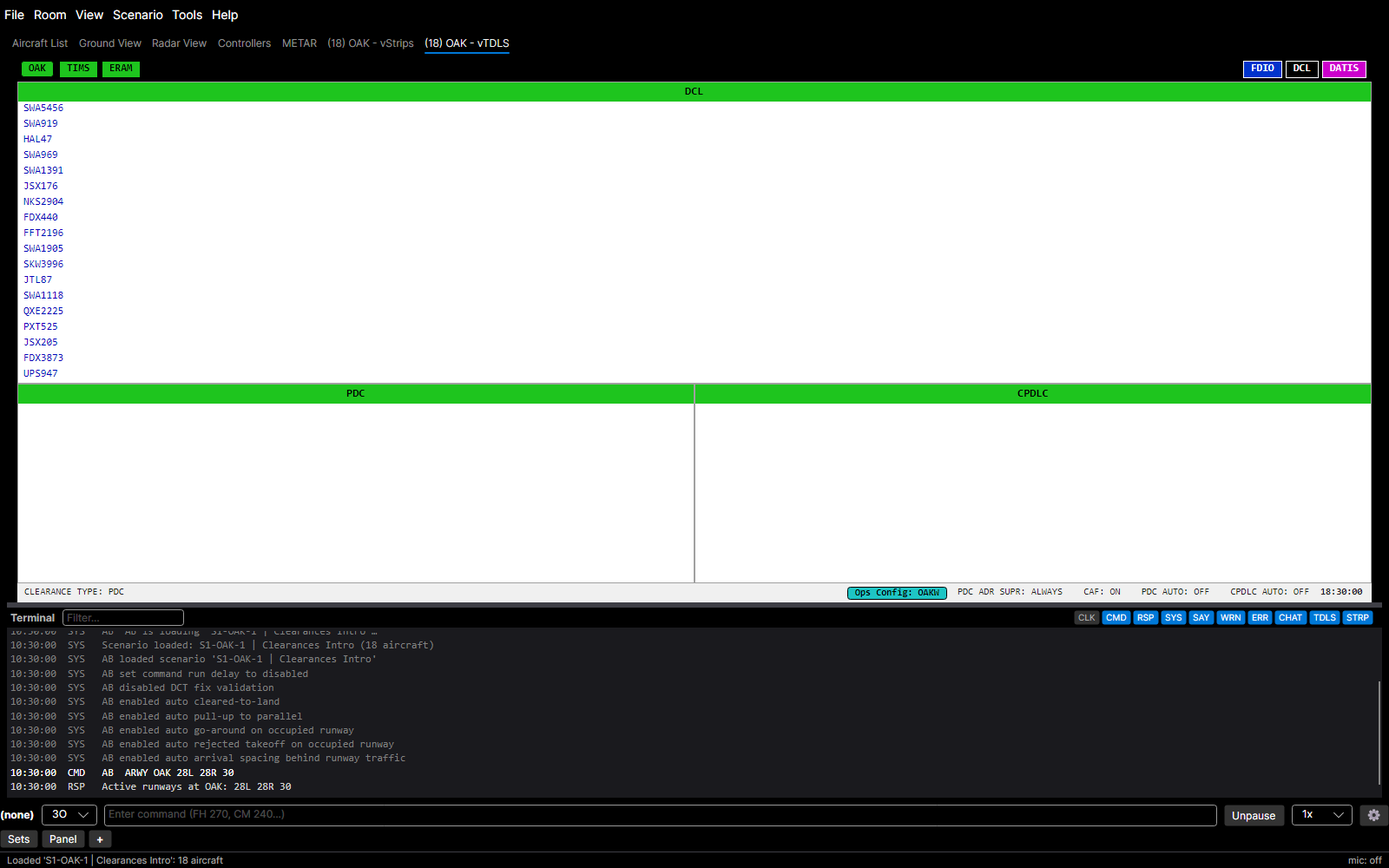
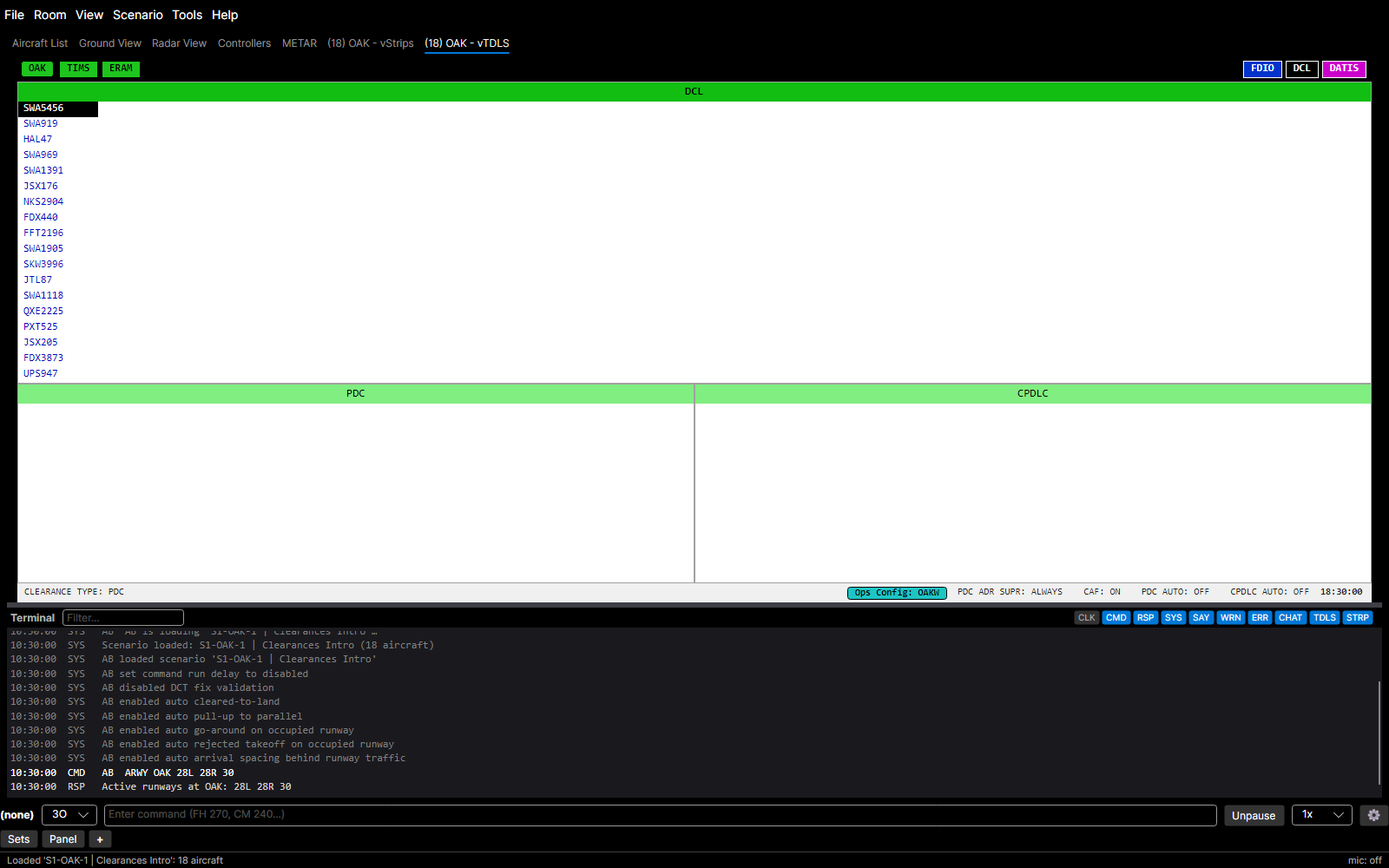
release: v0.18.4-beta

Changed region(s): [[0.0, 0.434, 1.0, 0.465], [0.0, 0.093, 0.0625, 0.155]]

diff --git a/docs/command-cheatsheet.html b/docs/command-cheatsheet.html
@@ -642,7 +642,7 @@ code {
 <div class="row" id="cmd-sim-control-waitd" data-verb="waitd" data-aliases="" data-desc="fly n nm before next cmd"><span class="verb">WAITD</span><span class="alias"></span><span class="desc">Fly N nm before next cmd</span></div>
 <div class="row" id="cmd-sim-control-timer" data-verb="timer" data-aliases="tmr" data-desc="countdown reminder; says text (or &quot;timer expired&quot;) on expiry. global or callsign-prefixed; timer cancel &lt;id|all&gt;"><span class="verb">TIMER</span><span class="alias">tmr</span><span class="desc">Countdown reminder; SAYs text (or "timer expired") on expiry. Global or callsign-prefixed; TIMER CANCEL &lt;id|ALL&gt;</span></div>
 <div class="row global" id="cmd-sim-control-bm" data-verb="bm" data-aliases="bookmark" data-desc="bookmark the timeline now (bm &lt;name&gt;); list / ren &lt;id&gt; &lt;name&gt; / del &lt;id|all&gt; / go &lt;id&gt; / next / prev"><span class="verb">BM</span><span class="alias">bookmark</span><span class="desc">Bookmark the timeline now (BM &lt;name&gt;); LIST / REN &lt;id&gt; &lt;name&gt; / DEL &lt;id|ALL&gt; / GO &lt;id&gt; / NEXT / PREV</span></div>
-<div class="row global" id="cmd-sim-control-add" data-verb="add" data-aliases="" data-desc="add aircraft: airborne (rules wt eng brg dist alt), @fix/frd (copy frd paste + alt), runway, on-final, @parking, or arrival on star (wpt.star.rwy [alt] [spspd] [lvl]). eng=p/t/j/h (h=helicopter)"><span class="verb">ADD</span><span class="alias"></span><span class="desc">Add aircraft: airborne (rules wt eng brg dist alt), @fix/FRD (Copy FRD paste + alt), runway, on-final, @parking, or arrival on STAR (wpt.star.rwy [alt] [SPspd] [LVL]). eng=P/T/J/H (H=helicopter)</span></div>
+<div class="row global" id="cmd-sim-control-add" data-verb="add" data-aliases="" data-desc="add aircraft: airborne (rules wt eng brg dist alt), @fix/frd (copy frd paste + alt), runway, on-final, @parking, or arrival on star (wpt.star.rwy [alt] [spspd] [lvl]). eng=p/t/j/h (h=helicopter). no ground map: runway spawn only"><span class="verb">ADD</span><span class="alias"></span><span class="desc">Add aircraft: airborne (rules wt eng brg dist alt), @fix/FRD (Copy FRD paste + alt), runway, on-final, @parking, or arrival on STAR (wpt.star.rwy [alt] [SPspd] [LVL]). eng=P/T/J/H (H=helicopter). No ground map: runway spawn only</span></div>
 <div class="row" id="cmd-sim-control-spawn" data-verb="spawn" data-aliases="" data-desc="spawn now"><span class="verb">SPAWN</span><span class="alias"></span><span class="desc">Spawn now</span></div>
 <div class="row" id="cmd-sim-control-spawndelay" data-verb="spawndelay" data-aliases="" data-desc="set spawn delay (seconds)"><span class="verb">SPAWNDELAY</span><span class="alias"></span><span class="desc">Set spawn delay (seconds)</span></div>
 <div class="row global" id="cmd-sim-control-hfr" data-verb="hfr" data-aliases="" data-desc="hold airport's ifr departures for release"><span class="verb">HFR</span><span class="alias"></span><span class="desc">Hold airport's IFR departures for release</span></div>

diff --git a/COMMANDS.md b/COMMANDS.md
@@ -753,7 +753,7 @@ These mutate ASDE-X display state only; they never change the underlying scenari
 | `PUSH $7A/PULL` / `PUSH @4A/PUSH` | Force how the tug moves the aircraft on that leg: `/PULL` tows it nose-first, `/PUSH` pushes it tail-first. Every move is that kind except the push-off from a stand, and a `/PUSH` onto a spot ends on the spot itself. Works on a `$spot`, `@gate`, `#node` or marked point, including each `PUSHM` point (`PUSHM @F8 $7A/PULL`). Refused with `Unable, spot 7A cannot be reached by a pull` when no plan of that kind fits; the pilot reads `pull forward to spot 7A` / `push back to spot 7A` |
 | `PUSH ~37.61523/-122.38604/090` | Push to a marked point: any ramp position as latitude/longitude (decimal degrees) with an optional magnetic facing; add `/PUSH` or `/PULL` last to force the motion (`~37.61523/-122.38604/090/PULL`). Refused on a runway, a holding position or a movement-area taxiway (`Unable, the marked point is on taxiway A`), and when the whole aircraft would not end clear of one. The pilot reads `push to the marked point, face east` (`…, hold` without a facing) |
 | `PUSH TE @B27` | Refused: a `@gate`, `$spot` or `#node` destination must be the first `PUSH` argument (`PUSH @B27`), never a later one |
-| `PUSH #1926` | Push to ground node 1926 (the ground view's node id): parks when the node is a gate or helipad (no facing then), holds on it when it is a spot, holds there otherwise. Takes the same optional facing as `$spot` (`PUSH #1926 FACE E`, `PUSH #1926 A1`) |
+| `PUSH #1926` | Push to ground node 1926 (the ground view's node id): parks when the node is a gate or helipad (no facing then), holds on it when it is a spot, holds there otherwise. Takes the same optional facing as `$spot` (`PUSH #1926 FACE E`, `PUSH #1926 A1`). Refused when the tow would take the aircraft past a movement-area taxiway at that node (every one at a junction) other than the taxiway it starts on: `Unable, the move to node 1926 would take the aircraft <n> ft past taxiway A`. `PUSHF` forces it, noting `(forced: tow runs past taxiway A, coordinate with ground)` |
 | `PUSH @4A` | Push back to gate 4A and park there on the stand's own heading, the way a tug lines an aircraft up on a stand: pushed or pulled onto the stand's line from whichever side needs fewer reversals. A stand takes **no facing** — `PUSH @4A FACE NE` is refused. |
 | `PUSH $7A` | Push onto spot 7A — the tug works the aircraft onto the spot's line from whichever side needs the fewest reversals (a push past the mark then a pull back, or a turn then a pull), always ending with a slow pull forward onto the mark, lined up **nose-out** toward the parent taxiway with the nosewheel on the mark. Off a gate it prefers to push straight back along the lead-in line, pivot onto the spot's lane and pull forward onto the mark. The aircraft is kept clear of the taxiways behind the alley (see below) |
 | `PUSH $7A TAIL W` | Push onto spot 7A with tail pointing west (= face east), overriding the default nose-out facing |
@@ -1016,7 +1016,7 @@ Helicopters are detected automatically from the ICAO type designator. They use t
 | `CTOPP OC [alt]` | CTOPP, depart direct to flight-plan destination after the vertical climb |
 | `CTOPP DCT FIX [alt]` / `CTOPP TLDCT FIX` / `CTOPP TRDCT FIX` | CTOPP, depart direct to fix after the vertical climb (optionally turning left/right) |
 | `ATXI @H1` | Air-taxi to helipad/parking spot H1 — airborne at 100 ft AGL, ~40 KIAS, descends and lands at the spot. The destination takes the same markers as a `TAXI` destination: `@` for a helipad or gate, `$` for a spot, and a bare token is always a runway, so `ATXI H1` is refused ("Unable, no runway H1, use @H1 for a helipad or gate, $H1 for a spot"). The helicopter flies the direct path, and the response warns once for each runway that path crosses, in the order it meets them (`Air taxi to H1 [direct path crosses runway 28R - 10L]`), since each crossing still needs its own clearance. On-airport only: a helicopter off the field or above 500 ft AGL answers "unable, we're N miles out, request landing at H1" (air taxi is a ground movement, AIM §4-3-17.b / 7110.65 §3-11-1.c) — use `LAND`. |
-| `ATXI $M1` | Air-taxi to taxiway spot M1 and set down there, holding position — a spot is not a parking position. The `$` marker is required; `$9L` is the spot called 9L, never runway 9L. |
+| `ATXI $M1` | Air-taxi to taxiway spot M1 and set down there, holding position — a spot is not a parking position. The `$` marker is required; `$9L` is the spot called 9L, never runway 9L. Reads back `Air taxi to spot M1`. |
 | `ATXI 28L` / `ATXI 28L@J` | Air-taxi to runway 28L's **holding position**, never onto the pavement — an air taxi is a ground movement (AIM §4-3-17.b) and a ground movement to a runway ends holding short of it (7110.65 §3-11-1.c, AIM §4-3-18). A bare destination is always a runway (zero-padded, so `ATXI 9L` is runway 09L). Bare `28L` picks the full-length bar on the helicopter's own side of the runway (the same pick `TAXIAUTO` makes); `28L@J` picks the bar on taxiway J. The helicopter sets down with its nose at the marking as a departure holding short: `CTO`/`LUAW` line it up, `CROSS 28L` taxis it across, `RES` is refused. 28L becomes its departure runway, with the same runway-change warning a `TAXI` to a different runway gives. A landing clearance the helicopter held is named in a trailing note, as for `TAXI`: `Air taxi to runway 28R, holding short (dropped: landing clearance for 28R)`. Readback names the runway ("air taxi to runway two eight left, at juliet"); a helicopter off the field answers "unable, we're N miles out, request landing runway 28L". |
 | `LAND @H1` | Land at named spot H1: `@` looks the name up as a helipad, then a parking position, then a taxiway spot. On the field this is an air taxi to the spot; from off the field it is flown as an approach — hold the present altitude, descend to 500 ft AGL ahead of the airport, then a 6° final onto the spot, slowing through 90 and 60 kt (7110.65 §3-11-6). |
 | `LAND $M1` | Land at taxiway spot M1 only (never a helipad or parking position of that name) and hold position there, as `ATXI $M1` does; no parking spot is set, so the helicopter is not reported parked |
@@ -1339,7 +1339,9 @@ The **low-approach runway change** (`CLAND <divergingRunway>` during an `LA`) is
 
 `OFL` / `OFR` apply a one-shot lateral offset to the current pattern leg (upwind, crosswind, downwind, or base — not final; use `MLS`/`MRS` for final-leg spacing). The aircraft doglegs ~30° from the current pattern heading in the requested direction, acquires a parallel track offset by the specified distance, then resumes parallel flight. Direction is relative to the aircraft's current heading (`OFR` on left downwind for 28L widens the pattern, away from the runway).
 
-Offset state lives on the active phase only — it discards on the next leg transition, so the next downstream leg resumes from the aircraft's actual offset position (a wider downwind naturally produces a longer base; an offset on base pushes the final-intercept point further out). Default offset is 0.5 NM (range 0.1–1.5 NM). Useful for in-pattern spacing when a faster aircraft is closing on slower traffic ahead and `EXT` isn't enough.
+Offset state lives on the active phase only — it discards on the next leg transition, so the next downstream leg resumes from the aircraft's actual offset position (a wider downwind naturally produces a longer base; an offset on base pushes the final-intercept point further out). A `FOLLOW` given on an offset upwind keeps flying the offset track until the crosswind turn.
+
+Default offset is 0.5 NM (range 0.1–1.5 NM). Useful for in-pattern spacing when a faster aircraft is closing on slower traffic ahead and `EXT` isn't enough.
 
 **Pattern direction persistence** — `MLT` / `MRT` / `CTO MLT` / `CTO MRT` / `GA MLT` / `GA MRT` set a persistent pattern-direction intent on the aircraft. The intent survives heading vectors (`FH` / `TR` / `TL`) that clear queued phases, and is **not** overridden by a single-approach clearance like `ERB 28L` / `ELB 28R` / `EF 28L`.
 
@@ -1409,7 +1411,7 @@ Once `HasReportedTrafficInSight` is set, `FOLLOW` works from any airborne state 
 
   From a go-around that flies the **missed approach** instead, an IFR follower answers *"Unable, on the missed approach, request vectors"*, and a VFR one is turned into a pattern climb-out on the traffic's side with no landing clearance, then follows as above.
 
-  Traffic whose go-around leaves the pattern, or that flies its missed, is refused from any follower: *"Unable, {T} is going around, request vectors"*. A pursuit that starts on the upwind or a climb-out holds the runway heading and its climb until it is past the departure end and at pattern altitude minus 300 ft, or a lower assigned altitude (AIM §4-3-2.c.1), before turning toward the traffic.
+  Traffic whose go-around leaves the pattern, or that flies its missed, is refused from any follower: *"Unable, {T} is going around, request vectors"*, or *"Unable, {T} is holding, request vectors"* once it is in its published missed-approach hold. A pursuit that starts on the upwind or a climb-out holds the runway heading and its climb until it is past the departure end and at pattern altitude minus 300 ft, or a lower assigned altitude (AIM §4-3-2.c.1), before turning toward the traffic.
 - **Following from an instrument approach** (follower on a course intercept, the approach's fixes, a procedure turn or a hold-in-lieu, told to follow traffic landing its runway or traffic with no runway): the approach is **kept** — same route, altitude and landing clearance; only the follow is recorded.
 
   Before final it spaces by speed, slowing toward the traffic's speed but never below its approach speed plus the wind additive, and never speeding up; the final-approach spacing takes over once it is on final. A VFR follower re-sequenced onto another runway from outside the final approach fix loses its landing clearance, and the RPO is told so.
@@ -1452,6 +1454,8 @@ For **IFR** visual approaches, use `CVA 28R FOLLOW AAL123` instead — a distinc
 
 `FOLLOW` and `FOLLOWF` share every refusal; `FOLLOWF` skips only the traffic-in-sight check. A refused follow changes nothing: the phase list, landing clearance, current follow and any extension stay as they were, and a refused `FOLLOWF` does not mark the traffic in sight.
 
+A command that cancels a published missed approach (its fixes or its hold), a VFR follower's accepted `FOLLOW` included, warns the RPO *"{Callsign} missed approach cancelled by {command}"*.
+
 `{T}` is the traffic, `{rwy}` the follower's runway, `{rwy2}` the traffic's runway. Ahead or behind *in the landing sequence* is measured by the path each aircraft has left to fly to the threshold, traffic still entering the pattern along its entry path; two aircraft on the same leg are ordered by position.
 
 | When | Response |
@@ -1463,8 +1467,8 @@ For **IFR** visual approaches, use `CVA 28R FOLLOW AAL123` instead — a distinc
 | `FOLLOWF` in solo training | *"FOLLOWF is RPO-only; use RTIS/RTISF in solo training"* |
 | The traffic is a super (7110.65 §7-2-1) | *"Unable, visual separation not authorized behind super {T}"* |
 | The traffic is departing: airborne in its takeoff, initial climb or departure procedure (a closed-traffic climb is not departing) | *"Unable, {T} is departing, request vectors"* |
-| An IFR follower flying its own missed approach (a go-around that does not re-enter the pattern, or the published missed); a VFR follower is re-sequenced instead | *"Unable, on the missed approach, request vectors"* |
-| The traffic is going around and leaving the pattern, or flying its missed; from an instrument approach, any go-around | *"Unable, {T} is going around, request vectors"* |
+| An IFR follower flying its own missed approach (a go-around that does not re-enter the pattern, or the published missed: its fixes or the hold they end in); a VFR follower is re-sequenced instead | *"Unable, on the missed approach, request vectors"* |
+| The traffic is going around and leaving the pattern, or flying its missed; from an instrument approach, any go-around. From a pattern leg, a pattern climb or the follower's own missed approach, traffic sitting in its published missed-approach hold is refused as holding | *"Unable, {T} is going around, request vectors"*; for traffic in its missed-approach hold, *"Unable, {T} is holding, request vectors"* |
 | The traffic is on the ground (a pattern-leg or pursuit follower accepts traffic rolling out on its own runway) | *"Unable, {T} has landed"* for traffic in its landing rollout, runway exit, touch-and-go, stop-and-go or helicopter landing; *"Unable, {T} is on the ground"* for any other |
 | The traffic's runway or filed destination is at another airport than the one the follower works (its pursuit's return runway, else its assigned runway, else its filed destination) | *"Unable, {T} is inbound to {APT}, request vectors"* |
 | From an instrument approach, the traffic lands another runway: an IFR follower anywhere on the approach, a VFR one only on the final inside the FAF or 5 nm, whichever is closer (outside that it is re-sequenced) | *"Unable, on approach for runway {rwy}, {T} is landing runway {rwy2}, request vectors"* |

diff --git a/USER_GUIDE.md b/USER_GUIDE.md
@@ -2494,7 +2494,7 @@ A loaded solo recording comes up in solo mode, so its replay speaks every pilot 
 
 ### Export Room as Scenario
 
-**Scenario > Export Room as Scenario...** (mentors and instructors) saves the room as it is right now as a new ATCTrainer-format scenario file, so a live-traffic session or an interesting moment can be replayed later as its own scenario. It works in any room with a scenario loaded, live-traffic sessions included. Weather is not exported.
+**Scenario > Export Room as Scenario...** (mentors, training staff and instructors) saves the room as it is right now as a new ATCTrainer-format scenario file, so a live-traffic session or an interesting moment can be replayed later as its own scenario. It works in any room with a scenario loaded, live-traffic sessions included. Weather is not exported.
 
 Every aircraft becomes a starting condition:
 
@@ -2541,7 +2541,7 @@ On servers that carry a live-traffic (FAA SWIM) feed, the session-settings (⚙)
 
 - **Starting a live session** — you don't need a scenario. **Scenario > Start Live Session...**
 
-  (mentors and instructors, on a server with the feed) opens a picker: choose the facility and the position you'll work on the left, the room's **primary airport** below (it sets the Ground View, surface traffic, flight strips and the radar centre: a tower offers itself, a TRACON the airports it controls with its primary pre-selected, a center every airport in the ARTCC with its main TRACON's primary pre-selected; your last choice is remembered) and an optional altitude ceiling.
+  (mentors, training staff and instructors, on a server with the feed) opens a picker: choose the facility and the position you'll work on the left, the room's **primary airport** below (it sets the Ground View, surface traffic, flight strips and the radar centre: a tower offers itself, a TRACON the airports it controls with its primary pre-selected, a center every airport in the ARTCC with its main TRACON's primary pre-selected; your last choice is remembered) and an optional altitude ceiling.
 
   **Start** opens the room at that position with no authored traffic: the radar centres on the airport, the ground layout loads, live traffic is on, the clock runs, and the current live weather (METARs and winds) is fetched so the room matches what the real aircraft are flying in. Everything else — assuming aircraft, tracking, strips, recordings — works as in a scenario.
 - **Live, paused, playback** — a live session's badge at the right of the timeline reads `LIVE` while the room follows real time, `PAUSED` while paused (the shadows freeze while the real aircraft fly on without you), and `PLAYBACK` after you rewind (the room's own recording plays back; real traffic replays exactly as it was seen). A red `LIVE · feed lost` means the server has lost the feed.
@@ -2635,7 +2635,7 @@ Once granted, the room list shows an ARTCC picker next to **Create Room**: pick 
 
 The room list shows only the rooms of your own ARTCC and of any ARTCC you have been granted, plus any room you are already in; rooms of other facilities are not listed. Each room is labelled with its scenario's ARTCC, or its creator's while no scenario is loaded, and once you have joined, the room's title follows that label: it changes when a scenario, a recording or a live session is loaded into the room, by you or another member, and when the scenario is unloaded.
 
-Joining is still never restricted by ARTCC: a room you cannot see in the list can be joined by its id or an invite, and a mentor's pull works as before. As a visitor you can join another facility's room (mentors and instructors) or be pulled into one from the lobby (everyone else) exactly as at home, whether or not you hold a grant there — you just can't load that ARTCC's catalog scenarios yourself; the room's host does.
+Joining is still never restricted by ARTCC: a room you cannot see in the list can be joined by its id or an invite, and a mentor's pull works as before. As a visitor you can join another facility's room (mentors, training staff and instructors) or be pulled into one from the lobby (everyone else) exactly as at home, whether or not you hold a grant there — you just can't load that ARTCC's catalog scenarios yourself; the room's host does.
 
 ### Room Members
 
@@ -3274,8 +3274,7 @@ VATSIM login page, and after you authorize, YAAT receives your verified identity
 rating) and connects. There is nothing to type — the old manual CID field is gone. Your session is
 remembered, so subsequent connects don't reopen the browser unless it has expired.
 
-Deployed servers admit **mentors and instructors** with full control: you can create rooms and load
-scenarios if you hold a VATUSA mentor role or a facility training staff role (FE, TA, ATM or DATM) at your home facility, or if your VATSIM rating is Instructor (I1/I2/I3) or higher.
+Deployed servers admit **mentors, training staff and instructors** with full control: you can create rooms and load scenarios if you hold a VATUSA mentor role or a facility training staff role (FE, TA, ATM or DATM) at your home facility, or if your VATSIM rating is Instructor (I1/I2/I3) or higher.
 
 Any other signed-in VATSIM controller — a **non-mentor** — connects in limited mode: they wait on a
 "waiting for room assignment" screen until an instructor pulls them into a room from the **YAAT Lobby**

diff --git a/CHANGELOG.md b/CHANGELOG.md
@@ -1,6 +1,13 @@
 # Changelog
 
-## Unreleased
+## v0.18.4-beta [2026/11/13]
+
+### Highlights
+
+- Rewinds and seeks in long sessions are much faster, and everyone in the room sees who is rewinding and how far along it is.
+- vTDLS works like the real one: keyboard navigation, Facility Menu departure frequencies, clearable fields, and departures fly the altitude in their PDC.
+- Facility engineers, training administrators and air traffic managers can now run sessions, like mentors and instructors.
+- Airports without a ground map show their runways in the Ground View, and naming one mid-session no longer stalls the room.
 
 ### Added
 
@@ -16,29 +23,27 @@
 - A tow cleared mid-move by `TAXI`, `PUSHM` or another clearance now brakes to rest over about 5 s, still shown as Pushback, instead of stopping dead.
 - Closed traffic or a follow from one runway to a widely spaced parallel now flies upwind and crosswind past both runway ends instead of crossing midfield.
 - A departure flies the altitude in the PDC sent to it from vTDLS, climb via or maintain, instead of the facility default; a voice altitude still overrides it.
-- vTDLS climb via defaults written "EXCPT MTN", "EXP MTN" or "EXPT MAINTAIN", common at ZLA facilities, now level the departure at that altitude.
-
+- A vTDLS climb via written "EXCPT MTN", "EXP MTN" or "EXPT MAINTAIN", as some facilities write it, now levels the departure at that altitude.
 - Pushback and tug planning keep taxiway clearances from AC 150/5300-13B, so an SFO alley push now stays 126.5 ft from taxiway A.
 - A push or tow of a small aircraft past a small parked neighbour (both ADG I or II) now keeps 10 ft wingtip clearance, not 25 ft.
 - A tow to a `#node` is refused when it would leave the aircraft past a taxiway at that node, except the taxiway it starts on.
 - A taxiway drawn under two names, such as FLL A and A1, now holds short at the same bar on both, so neither reaches the runway around it.
-- Wide-bodies such as the A380, 777 and 747 now turn on the ground on a radius set by their wheelbase, so they round taxi corners wider and slower.
+- Long-wheelbase aircraft, from the A380, 777 and 747 to the 757, A321, MD-80 and Q400, now turn on the ground on a radius set by their wheelbase, rounding corners wider and slower.
 - Every vTDLS dropdown can be cleared back to `- - - -`, and Climb via and Maintain clear each other both ways, as in vTDLS.
 - Choosing a SID or transition in vTDLS fills all seven fields from it, emptying any it has no default for.
 - vTDLS picks the SID and transition from any filed route fix that starts a transition, not only a SID named first.
 - `ATXI` to a spot reads "Air taxi to spot D1", and its autocomplete offers runways, `@` stands and `$` spots instead of bare taxiways.
-- A climb via from the vTDLS default works its top out again when the departure runway changes before takeoff; a controller's `CVIA` keeps its top.
+- A climb via from vTDLS, default or sent PDC, works its top out again for the runway in its line-up or takeoff clearance; a controller's `CVIA` keeps its top.
 - A push route drawn to one point on an aircraft already under tow now re-plans the tow there (`PUSHM` to that point) instead of being refused.
 - A running FOLLOW ends with an RPO note when its lead is moved to another runway, unless the follower has no runway of its own.
-- On an approach, a slower aircraft keeps its own speed at a published maximum fix speed instead of speeding up to it.
-- A following aircraft on an approach no longer speeds up toward a published fix speed, so it keeps its spacing behind the lead.
+- On an approach, a slower aircraft or a follower keeps its own speed at a published maximum fix speed instead of speeding up to it, keeping its spacing.
 - A new `TAXI`, `TAXIAUTO`, `RTAXI`, `ATXI` or `CROSS` names any stored takeoff, line-up or landing clearance it drops: "(dropped: takeoff clearance for 28R)".
 - A tug now slows before each turn of a tow, so it no longer surges to 6-12 kt entering a tight turn; tows take up to 3 s longer.
 - Facility engineers, training administrators and air traffic managers at your home facility can now run sessions, as mentors and instructors can.
 - `TAXI` and `RTAXI` autocomplete offers `RWY`, `@` and `$` right after the command, so the no-route `TAXI RWY 28R` form is suggested.
 - A FOLLOW behind a straight-in lead turns out on its own side at a towered field, never toward a parallel runway or across the final.
 - A pattern follower too close behind its traffic on the downwind extends and turns base late instead of breaking off the follow.
-- A downwind follower held 2 NM past its base point behind traffic on base or final now says "unable to follow, extending downwind, request base turn".
+- A downwind follower held 2 NM past its base point behind traffic on base, final, or holding the downwind now says "unable to follow, extending downwind, request base turn".
 - A follower whose FOLLOW ends off the pattern rejoins the circuit ahead, by the final, base or downwind, instead of turning back toward the field.
 - A follower already extending the traffic's downwind for spacing now says "extending downwind for spacing" instead of reporting S-turns.
 

diff --git a/SOLO_TRAINING.md b/SOLO_TRAINING.md
@@ -41,7 +41,7 @@ Self-training needs your training administrator's (TA's) and your mentor's appro
 On a YAAT server, creating a room and loading a scenario require a **VATUSA mentor role**, a **facility training staff role (FE, TA, ATM or DATM) at your home facility**, or a **VATSIM Instructor rating (I1/I2/I3) or higher**. Everything else — issuing commands, working the frequency, reading the Session Report — is open to any signed-in VATSIM controller. That means there are two ways into a solo session:
 
 - **You hold a mentor or training staff role, or an instructor rating.** Sign in, create your own room, load whatever scenario you like, and run the session start to finish on your own.
-- **You are a student.** You cannot start a solo session by yourself. You sign in and connect, and then you wait in the **YAAT Lobby** for a room assignment. A mentor or instructor has to create the room, load the scenario they want you to train on, and pull you into it from **Room > Members...**. Once you are in the room, you work the traffic exactly as the rest of this guide describes.
+- **You are a student.** You cannot start a solo session by yourself. You sign in and connect, and then you wait in the **YAAT Lobby** for a room assignment. A mentor, training staff or instructor has to create the room, load the scenario they want you to train on, and pull you into it from **Room > Members...**. Once you are in the room, you work the traffic exactly as the rest of this guide describes.
 
 As a student you cannot create a room, load or unload a scenario, join a room you were not pulled into, or kick anyone. The practical consequence is that **your mentor chooses the scenario.** Solo Training is not a self-serve sandbox — it is a training session your facility's staff sets up for you, with the pilot side automated instead of staffed by a human RPO.
 
@@ -99,14 +99,14 @@ After you press **Enter**, check the terminal. `RSP` tells you whether YAAT acce
 
 ## Start a Solo Session
 
-The setup steps belong to whoever holds the mentor role or instructor rating. If that is you, you do all of it; if not, your mentor does the first list and you do the second. See [Before You Start](#before-you-start-you-need-a-mentor-or-instructor).
+The setup steps belong to whoever holds the mentor or training staff role, or the instructor rating. If that is you, you do all of it; if not, your mentor does the first list and you do the second. See [Before You Start](#before-you-start-you-need-a-mentor-or-instructor).
 
-**Mentor / instructor:**
+**Mentor, training staff or instructor:**
 
 1. Open **Settings › Scenario defaults** and enable **Solo training mode**. This is a saved default for future scenario loads.
 2. Create a room, then load traffic from **Scenario > Load Scenario...**. Solo Training works with ARTCC scenarios from vNAS and local ATCTrainer-format scenario files.
 3. If **Scenario Setup** appears, choose the difficulty and any solo workload pacing controls.
-4. If the student is not a mentor or instructor themselves, open **Room > Members...** and click **Pull** next to them in the **YAAT Lobby** to bring them into the room.
+4. If the student is not a mentor, training staff or instructor themselves, open **Room > Members...** and click **Pull** next to them in the **YAAT Lobby** to bring them into the room.
 5. Stay and observe, or leave — the session runs without you. See [The Mentor Does Not Have To Stay](#the-mentor-does-not-have-to-stay).
 
 **Student:**
